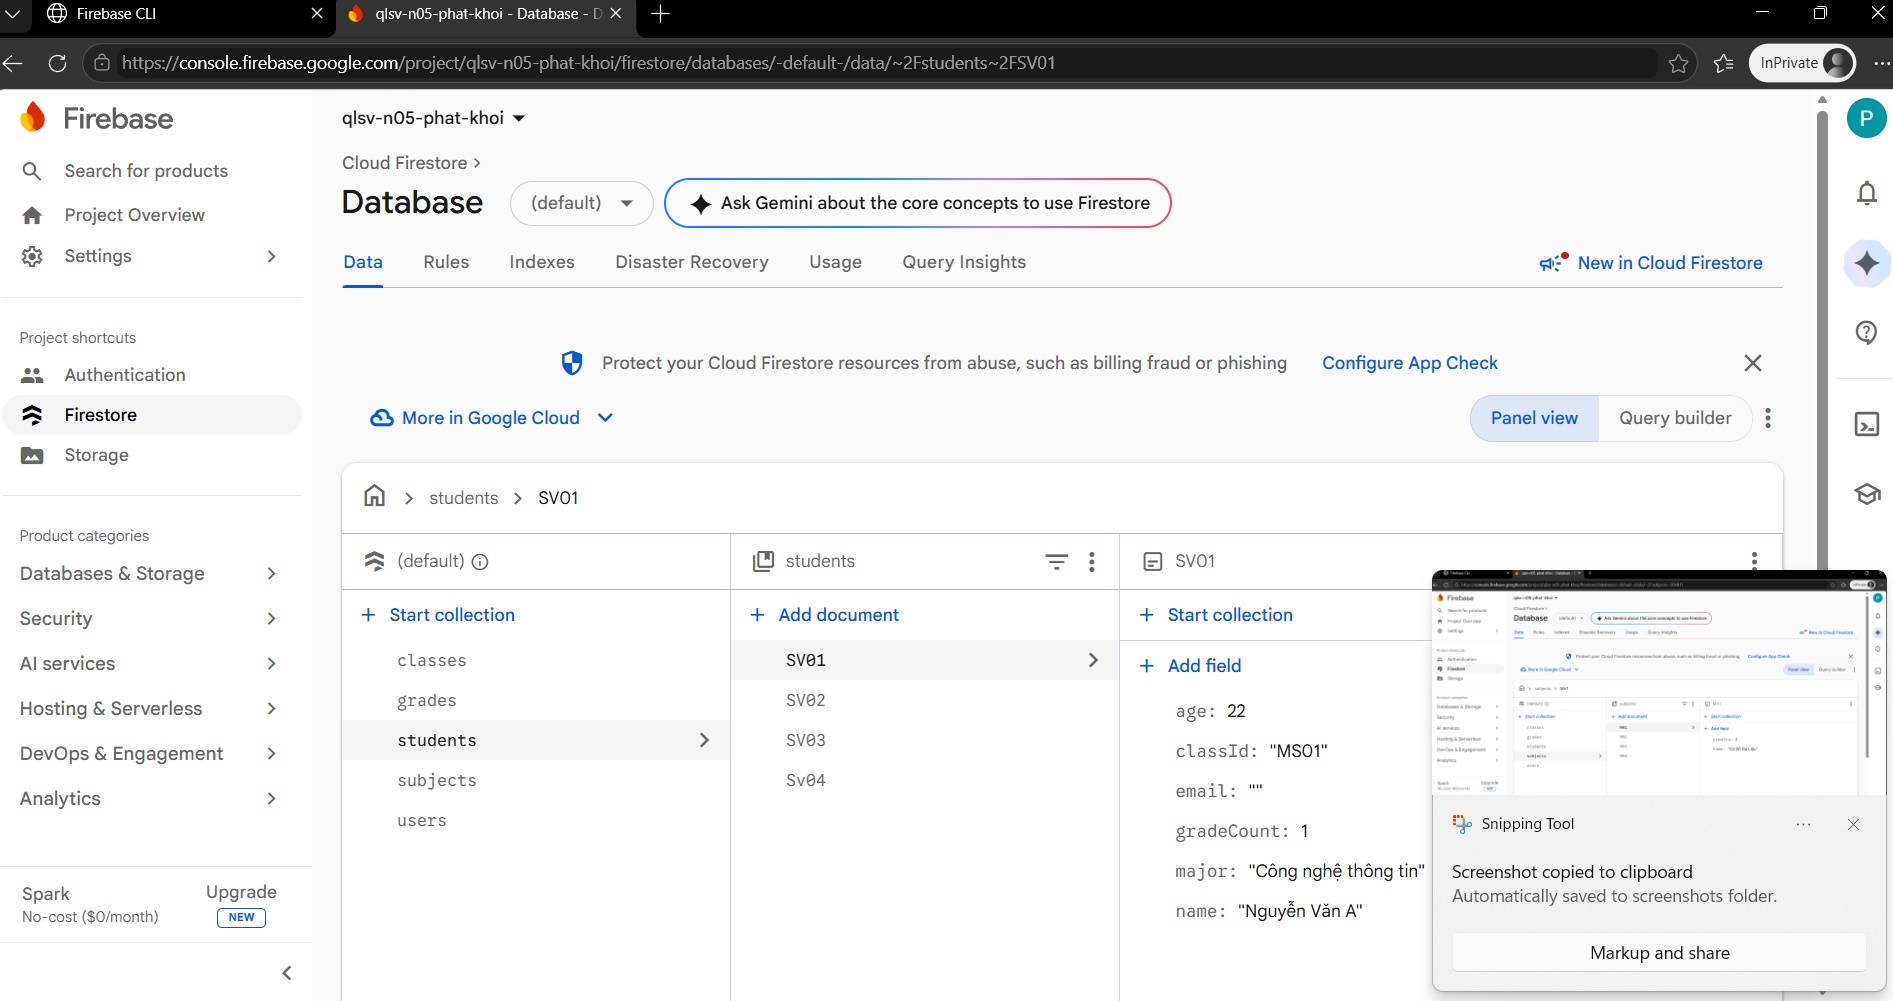
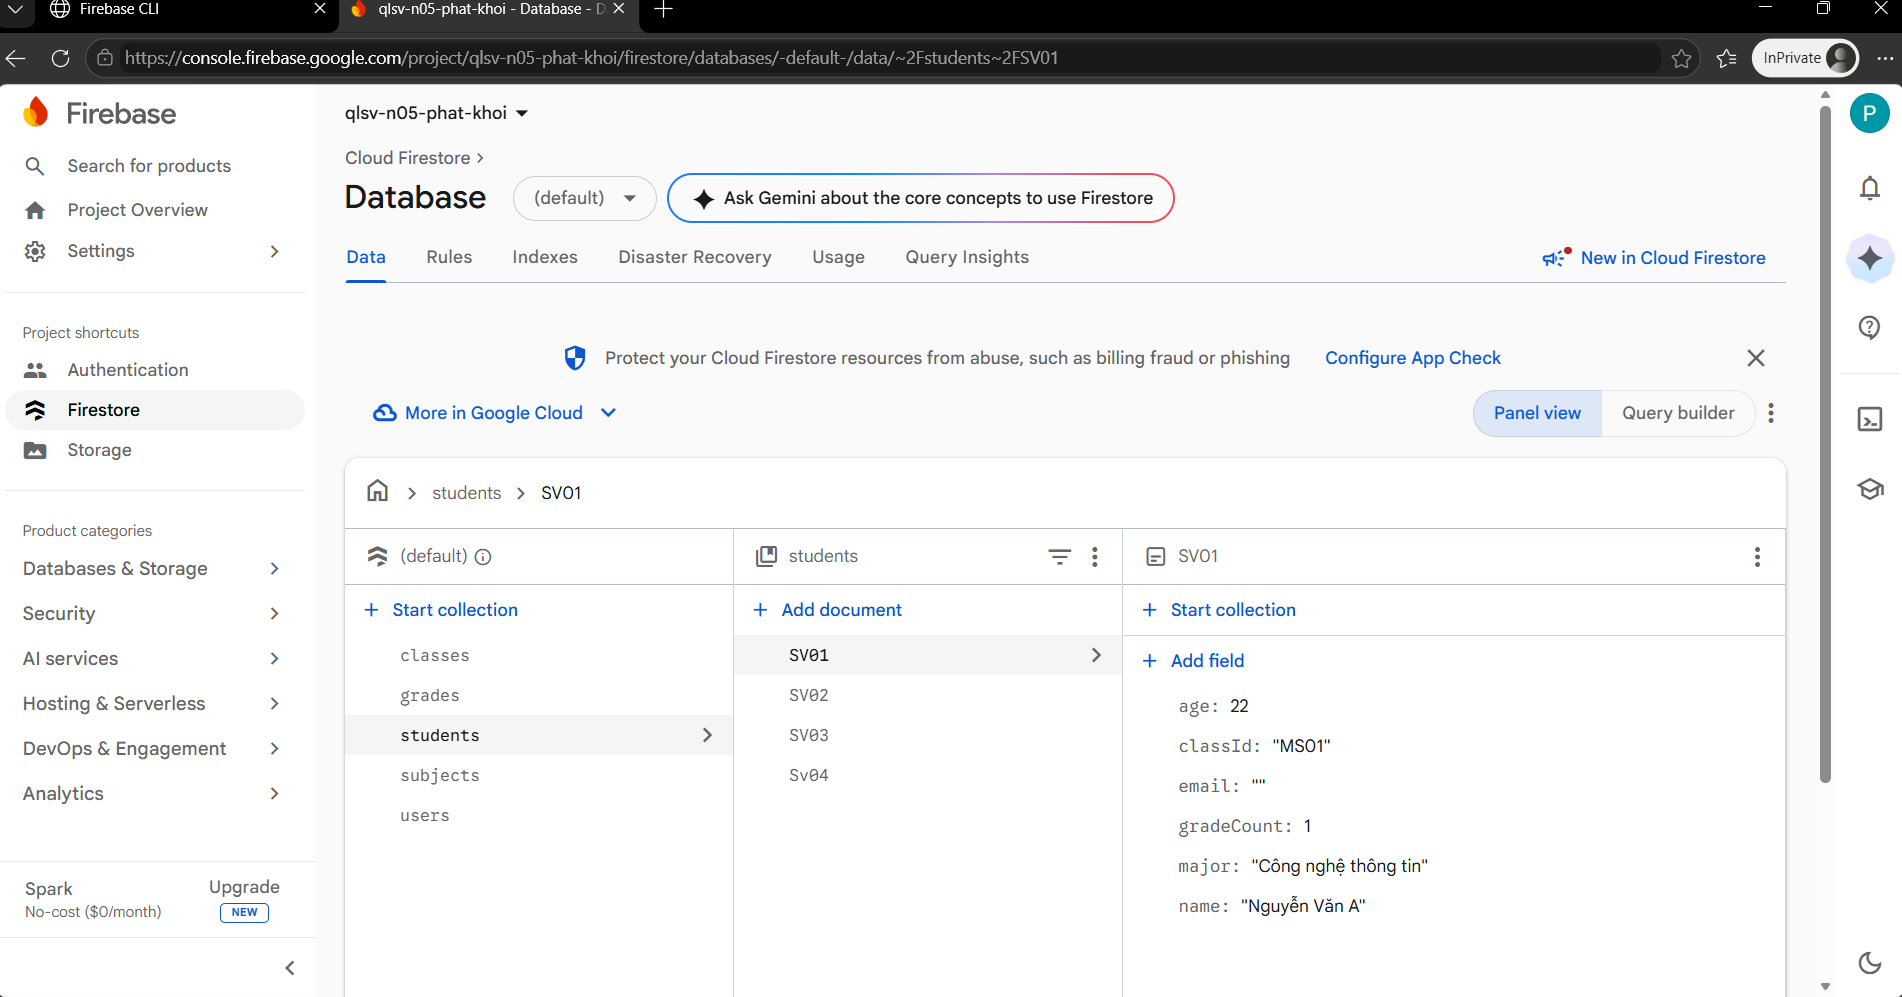
docs: thay ảnh students không bị che, thêm ảnh classes

diff --git a/docs/screenshots/firebase-that/README.md b/docs/screenshots/firebase-that/README.md
@@ -23,6 +23,7 @@ trên project Firebase `qlsv-n05-phat-khoi` (thanh trên cùng của app ghi
 | `10-console-users.png` | Collection `users`: 2 document có ID là UID của tài khoản; hồ sơ có `displayName`, `email`, `role: "manager"` |
 | `11-console-subjects.png` | Collection `subjects`: MH1–MH4, document MH1 có `name` và `credits: 3` |
 | `12-console-grades.png` | Collection `grades`: ID dạng `SV01~MH1~2026-1`, có `score: 8`, `semester`, `studentId`, `subjectId` |
-| `13-console-students-gradecount.png` | Collection `students`: SV01 có `gradeCount: 1` (bộ đếm điểm dùng để chặn xóa, US08), cùng `age`, `classId`, `email`, `major`, `name`. Ảnh có cửa sổ Snipping Tool che một phần, nên chụp lại nếu dùng trong báo cáo |
+| `13-console-students-gradecount.png` | Collection `students`: SV01 có `gradeCount: 1` (bộ đếm điểm dùng để chặn xóa, US08), cùng `age`, `classId`, `email`, `major`, `name` |
+| `14-console-classes.png` | Collection `classes`: MS01–MS04, document MS01 có `cohort: "K18"`, `major`, `name` |
 
 Còn thiếu: ảnh tab Rules, ảnh Authentication → Users, ảnh sau khi lưu tên mới.

diff --git a/docs/10-module-sinh-vien-va-tai-khoan.md b/docs/10-module-sinh-vien-va-tai-khoan.md
@@ -96,6 +96,7 @@ Sơ đồ nằm ở [09-class-diagram-va-so-do.md](09-class-diagram-va-so-do.md)
 | Console: `subjects` | ![subjects](screenshots/firebase-that/11-console-subjects.png) |
 | Console: `grades` | ![grades](screenshots/firebase-that/12-console-grades.png) |
 | Console: `students` có `gradeCount` | ![students](screenshots/firebase-that/13-console-students-gradecount.png) |
+| Console: `classes` | ![classes](screenshots/firebase-that/14-console-classes.png) |
 
 ## 7. Kiểm thử theo story
 
